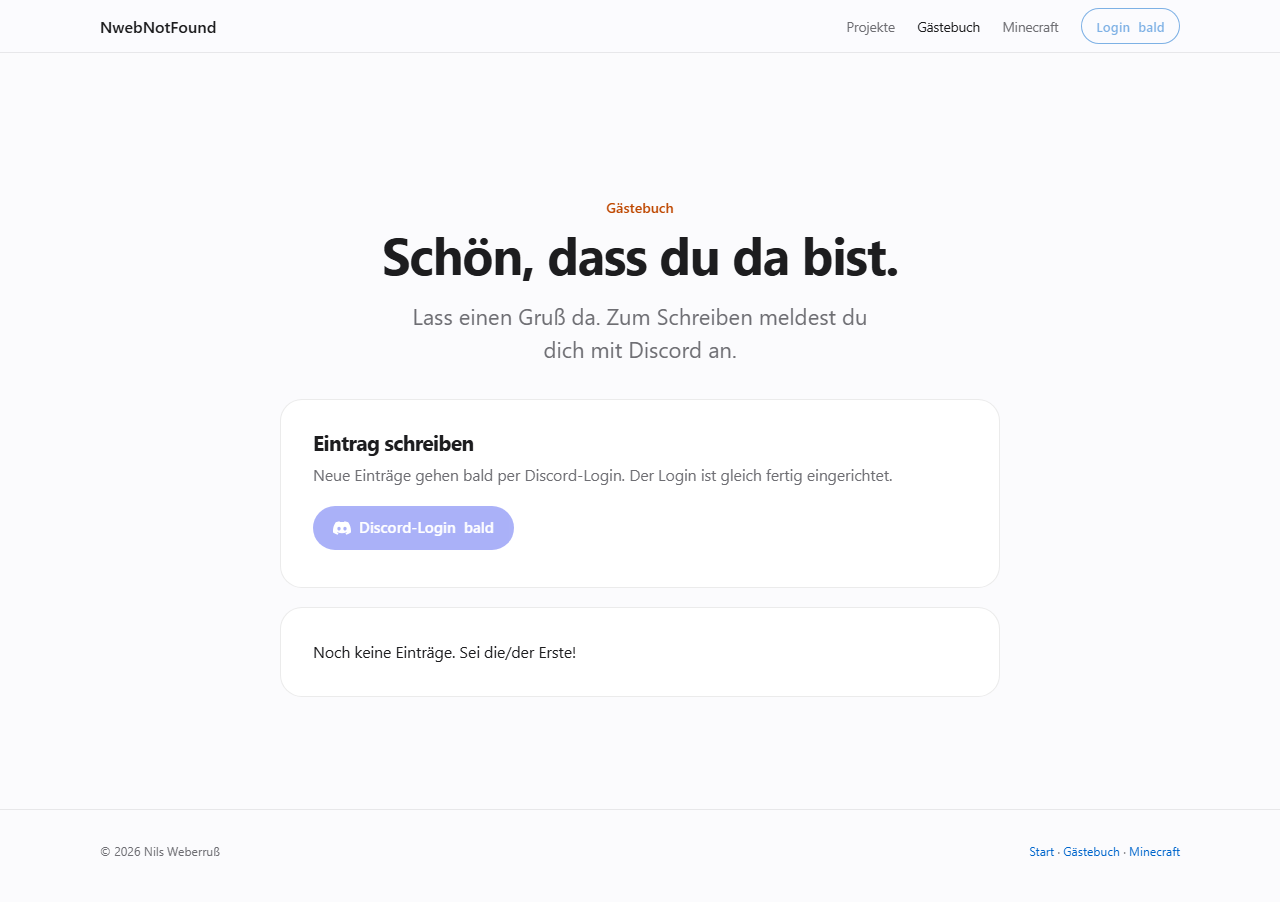
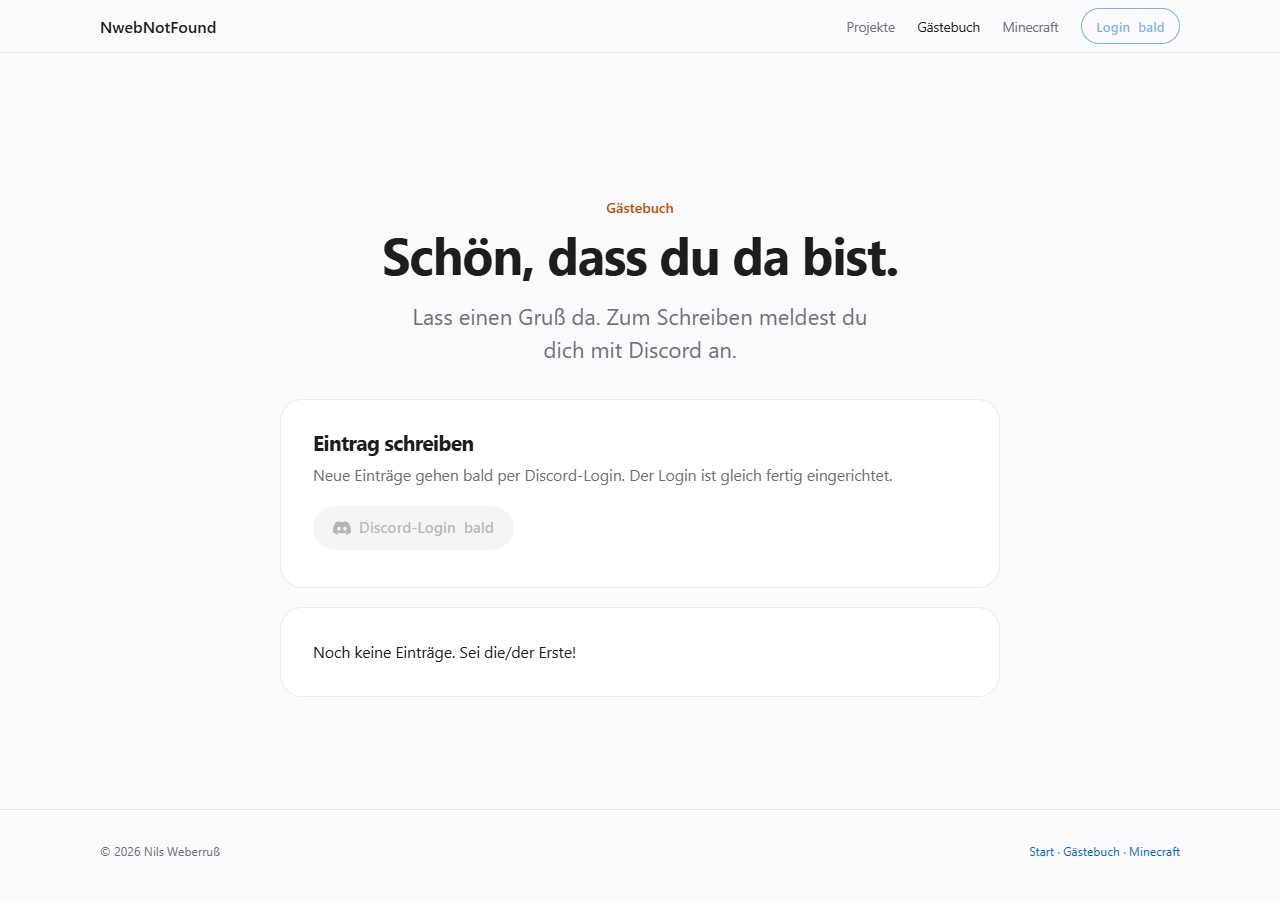
Design-System: Mobile-Politur (Swipe-Drawer, Dialoge, Approval-Stack, Safe-Area)
- Panel: <dialog> für Bestätigung und 'Neuer Bot' (kein prompt()), Bottom-Sheet mit
  Grabber, gestapelte Aktionen, primäre Aktion unten; Swipe vom linken Rand öffnet und
  schließt den Drawer; Approval-Card mit einer gefüllten Primäraktion; Modellwahl auf
  dem Handy im Bots-View statt im Header; 16px-Felder, 44px-Touch-Ziele
- Website: Discord-Buttons nutzen den Flächen-Akzent (kein Lila), disabled neutral,
  Safe-Area in Nav/Menü/Footer
- DESIGN.md: §0 Produktanforderungen, Dialog-/Drawer-/Approval-Regeln
- Screenshots: Panel-Login, Chat, Drawer, Approval, Bot-Dialog (390/1280, hell/dunkel);
  MC-Screenshots nur noch dunkel (Theme ist dark-only)
- scripts/mock-hermes.mjs: lokaler Hermes-Mock für die Panel-Screenshots

Changed region(s): [[0.25, 0.5588, 0.4062, 0.6208]]

diff --git a/ai-panel/public/app.css b/ai-panel/public/app.css
@@ -931,7 +931,7 @@ dialog.modal input[aria-invalid="true"] { border-color: var(--danger); }
       calc(var(--ds-space-3) + env(safe-area-inset-bottom)) max(var(--ds-space-3), env(safe-area-inset-left));
   }
   .composer textarea { font-size: 16px; } /* no iOS zoom on focus */
-  .model-picker { max-width: 132px; font-size: 16px; }
+  .model-picker { display: none; } /* model lives in Bots → Modell on phones, the header stays quiet */
   .panel-view {
     padding: calc(var(--header-h) + var(--ds-space-2)) max(var(--ds-space-3), env(safe-area-inset-right))
       calc(var(--ds-space-8) + env(safe-area-inset-bottom)) max(var(--ds-space-3), env(safe-area-inset-left));
@@ -949,8 +949,18 @@ dialog.modal input[aria-invalid="true"] { border-color: var(--danger); }
       calc(var(--ds-space-5) + env(safe-area-inset-bottom)) max(var(--ds-space-4), env(safe-area-inset-left));
     animation: sheet-up var(--ds-duration) var(--ds-ease-out);
   }
-  .modal-actions { flex-direction: column-reverse; gap: var(--ds-space-2); }
+  .modal-actions { flex-direction: column; gap: var(--ds-space-2); }
   .modal-actions button { width: 100%; min-height: 48px; font-size: var(--ds-text-base); }
+  /* grabber: makes the bottom sheet read as a sheet, not as a stranded card */
+  dialog.modal .modal-box::before {
+    content: "";
+    justify-self: center;
+    width: 36px;
+    height: 4px;
+    margin: calc(-1 * var(--ds-space-2)) 0 var(--ds-space-2);
+    border-radius: var(--ds-radius-full);
+    background: var(--ds-border);
+  }
 }
 
 /* Touch targets: 44px minimum wherever the input is a finger, and 16px form text so mobile Safari

diff --git a/ai-panel/public/app.js b/ai-panel/public/app.js
@@ -81,8 +81,8 @@ function confirmAction(title, text, okLabel = "Bestätigen") {
   });
 }
 
-// The "new bot" flow used to be a browser prompt() (blocking, unstyled, not reachable with a
-// keyboard on iOS). This is the same dialog pattern as confirmAction, with a real form field.
+// The "new bot" flow used to be a blocking browser dialog (unstyled, unreachable on iOS).
+// This is the same dialog pattern as confirmAction, with a real form field.
 function askBotName() {
   return new Promise((resolve) => {
     const dialog = $("#bot-dialog");
@@ -453,7 +453,7 @@ function approvalCard(runId, event) {
   for (const choice of choices) {
     actions.append(
       el("button", {
-        class: choice === "deny" ? "danger sm" : "primary sm",
+        class: choice === "deny" ? "danger sm" : choice === "once" ? "primary sm" : "ghost sm",
         text: labels[choice] || choice,
         onclick: async () => {
           try {

diff --git a/src/worker.js b/src/worker.js
@@ -46,7 +46,8 @@ img{max-width:100%;display:block}
 .btn.sm{min-height:36px;padding:0 .95rem;font-size:.84rem;position:relative}.btn.sm::before{content:"";position:absolute;inset:-4px -2px}
 @media(pointer:coarse){.btn.sm{min-height:40px}}
 .btn[disabled]{opacity:.5;cursor:not-allowed;transform:none}
-.discord{background:#5865F2;color:#fff}
+.discord{background:var(--acc);color:var(--accfg)}
+.discord:disabled{background:var(--line);color:var(--mut);box-shadow:none;cursor:not-allowed;transform:none}
 .mut{color:var(--mut)}
 .eyebrow{font-size:.85rem;font-weight:600;color:var(--acc2);letter-spacing:.02em;margin:0 0 .6rem}
 h1,h2,h3{letter-spacing:-.025em;line-height:1.08;margin:0}

diff --git a/DESIGN.md b/DESIGN.md
@@ -260,6 +260,8 @@ capped at `40ch`–`72ch`.
 - States: hover lifts 1px, active scales to .98, `[disabled]` 50% opacity and `cursor:not-allowed`,
   focus ring from §2. Icons are 18px, `gap:--ds-space-2`, `aria-hidden` unless the icon is the label.
 - No icon-only button without `aria-label`.
+- Third-party brand colours are not used. The Discord login button keeps the glyph but takes
+  `--ds-primary` (panel) / `--ds-primary` green (MC): one accent per surface, not a purple island.
 
 ### Inputs
 
@@ -317,8 +319,8 @@ capped at `40ch`–`72ch`.
   settles on `close`, so Esc cannot leave a hanging `await`.
 - Desktop: centred, `--ds-radius-xl`, `width:min(440px, 100vw - 2×16px)`, `--ds-shadow-3`.
   Phone (≤860px): a bottom sheet pinned to the safe area, full width, radius only on the top
-  corners, actions stacked (`flex-direction: column-reverse`, 48px tall, full width) so the
-  primary action sits under the thumb.
+  corners, actions stacked full width (`flex-direction: column`, 48px tall) with the primary action
+  last, i.e. closest to the thumb. A 36×4px grabber marks it as a sheet.
 - Fields are real `<label>`s, 44px tall, **16px text** (no iOS zoom), `aria-describedby` for the
   hint, `aria-invalid` plus a `role="alert"` message for errors. Validation is explicit, not
   `required`-only, and the message names the rule.
